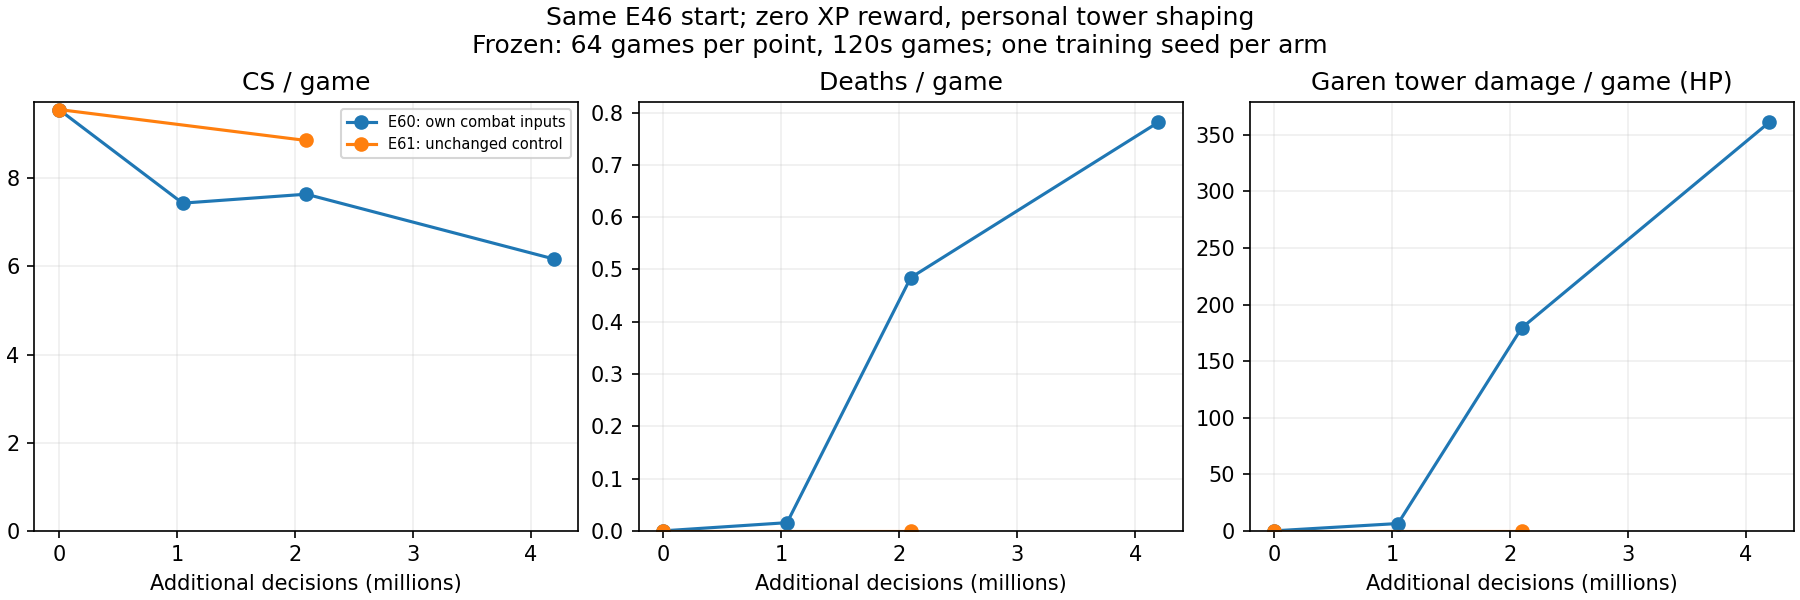
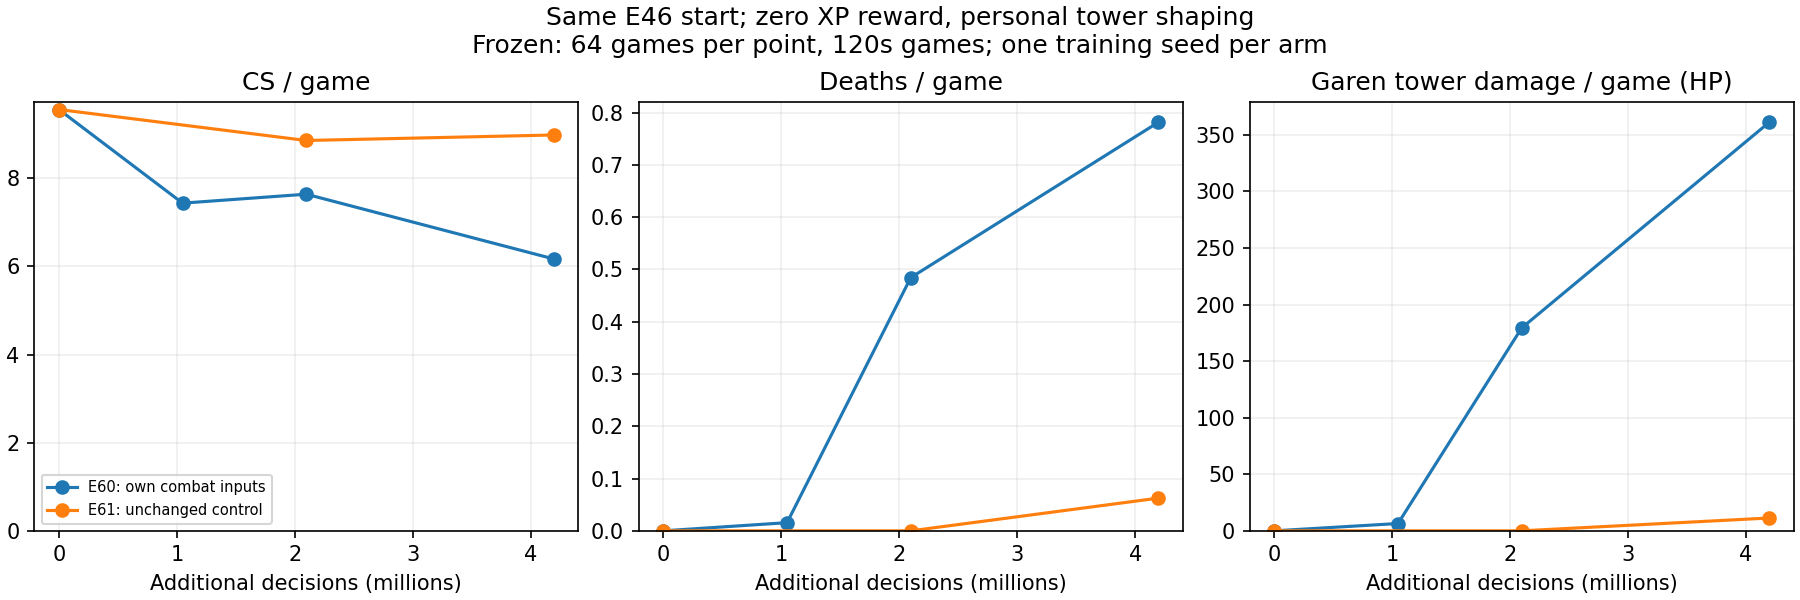
Record matched 256-update control against own-state variant

diff --git a/STATUS.md b/STATUS.md
@@ -1,4 +1,4 @@
-**OVERNIGHT ACTIVE through 2026-10-01 15:37 UTC:** E60 completed Slurm1827 COMPLETED/0:0 in23m29s. Frozen64game120s CS9.5625→7.4375→7.640625→6.171875; deaths0→.015625→.484375→.78125; personal towerHP0→6.465→179.352→360.998; reward6.3293→4.2439→6.5281→9.8519. Own-action features do not pass farming gate; rewards favor newly learned risky tower damage. Final4194304 checkpoint finite/latest identical,256metrics/nonfinite0. Watcher stopped after active review; inactive/registry clean. E61 longer unchanged v3 control Slurm1828 RUNNING;14 GPU canaries and180s startup watch passed; endpoint canary passed; bridge lanerl-event-1828.service active/result updating, expiry2026-10-01T09:41:03.461037+00:00;512updates~35–40min incl startup, compare128/256/512. E61 frozen128 exactly matches entire E57 evaluation JSON:8.859375CS/0deaths/0towerHP; validates reproduction. Training continues; plot docs/figures/afk_debug_comparison.png. Next candidate: explicit AFK death cost300gold (currently0), keeping HP100/personal tower900, to test objective mismatch; implemented opt-in default0 with event/respawn test; E62 prepared, not launched. Preserve E46 best; require frozen gains and independentseed repeat.
+**OVERNIGHT ACTIVE through 2026-10-01 15:37 UTC:** E60 completed Slurm1827 COMPLETED/0:0 in23m29s. Frozen64game120s CS9.5625→7.4375→7.640625→6.171875; deaths0→.015625→.484375→.78125; personal towerHP0→6.465→179.352→360.998; reward6.3293→4.2439→6.5281→9.8519. Own-action features do not pass farming gate; rewards favor newly learned risky tower damage. Final4194304 checkpoint finite/latest identical,256metrics/nonfinite0. Watcher stopped after active review; inactive/registry clean. E61 longer unchanged v3 control Slurm1828 RUNNING;14 GPU canaries and180s startup watch passed; endpoint canary passed; bridge lanerl-event-1828.service active/result updating, expiry2026-10-01T09:41:03.461037+00:00;512updates~35–40min incl startup, compare128/256/512. E61 frozen128 exactly matches entire E57 evaluation JSON:8.859375CS/0deaths/0towerHP; validates reproduction. E61u2568.984375CS/.0625deaths/11.3307towerHP; continues to512. E62 dry-run passed. Training continues; plot docs/figures/afk_debug_comparison.png. Next candidate: explicit AFK death cost300gold (currently0), keeping HP100/personal tower900, to test objective mismatch; implemented opt-in default0 with event/respawn test; E62 prepared, not launched. Preserve E46 best; require frozen gains and independentseed repeat.
 
 **E56/E57 COMPLETE — oneepoch candidate rejected; NOTHING RUNNING for this comparison:** E57 Slurm1823 COMPLETED/0:0,14m22s;128updates/2.097M. Frozen64game120s CS9.5625→8.84375→8.859375, exactly reproduces E51 aggregate checkpoints. E56 oneepoch9.5625→5.53125→3.640625. Both0deaths/0personal towerHP. Same initSHA verified,manifest epochs1/4;128metrics each/nonfinite0,finalstep/finiteparams/latestidentical verified. Median steady update1.8504s vs3.2502s =1.756x faster oneepoch, but worse farming; neither improves starting checkpoint. Do not extend E56 or claim diagnostic button likelihood predicts gameplay. Last16 training criticEV−.729 vs−.062 (different onpolicy data), postKL.0370 vs.0214; oneepoch reduces BOTH actor and critic updates, so cannot isolate actor interference. Rootcause unresolved; next investigation should distinguish critic-credit quality/causal initiating actions from actor-update size, rather than repeat blind epoch sweep. No next job submitted. E57 watcher delivered, inactive/registry absent. Results LEARN-AFK-11 final; committed source/settings/evidence.
 

diff --git a/docs/JAX_FIDELITY_LEDGER.md b/docs/JAX_FIDELITY_LEDGER.md
@@ -625,3 +625,5 @@ History lives in `docs/EXPERIMENTS.md` and `docs/JAX_FIDELITY_LEDGER.md`.
 | LEARN-AFK-15 rescore | E60u25614/64 death-free games mean10.1429CS/149.9116towerHP/reward7.7859;50deathgames5.06CS/420.1028towerHP/reward10.4304. Rescoring identical trajectories with300gold death cost gives wholecohort reward−1.86683 versusinitial6.32926 (no deaths). | Conditional subsets are selected outcomes, not causal evidence or a new frozen policy result. Shows corrected accounting would rank current dive-heavy behavior below original; actual retraining result pending. |
 
 | LEARN-AFK-14 control128 | E61u128 frozen evaluation JSON exactly matches E57u128 (all episode rows/metrics),8.859375CS/0deaths/0towerHP. Initial evaluation also9.5625CS. | Default0 death option/defaultseed0 retain control behavior; longer training remains in progress. Plot tool extended with --group debug; shows completed frozen checkpoints only, no reward comparisons across different objectives. |
+
+| LEARN-AFK-14 control256 | E61u256 frozen64games CS8.984375/deaths.0625/towerHP11.330745/reward5.462119. Matched E60u2566.171875/.78125/360.99844/9.85192. | Own-input variant learns substantially more tower damage with worse farming/survival; neither passes original farming gate. E61 continues to512; E62 death-cost candidate dry-run passed. |
